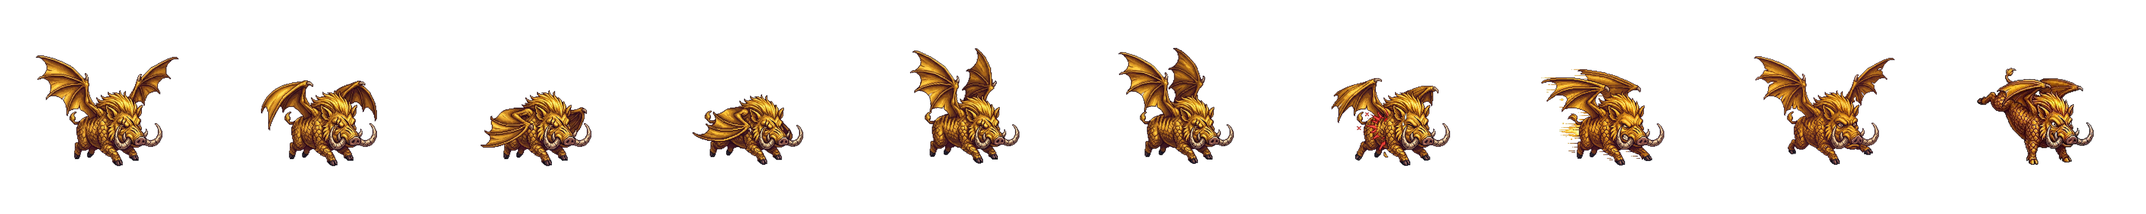
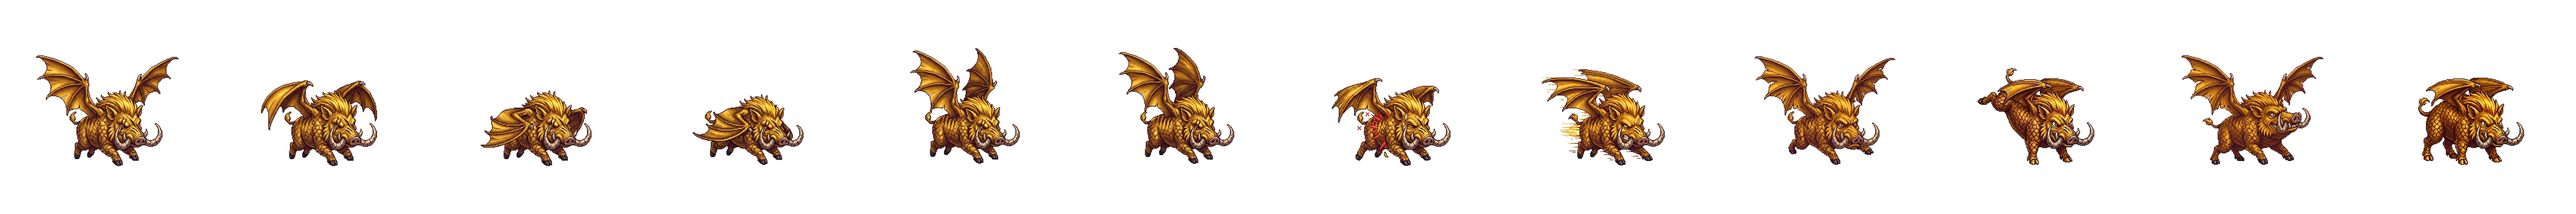
When Pigs Fly: glad landings and the razorback's alternating buck, synced from app 5a3f905

Changed region(s): [[0.5, 0.25, 1.0, 0.7812], [0.0, 0.2188, 0.5, 0.7812]]

diff --git a/arcade/v2/app/lib/arcade/passage/boar.dart b/arcade/v2/app/lib/arcade/passage/boar.dart
@@ -52,8 +52,12 @@ enum BoarStage {
   String get label => BoarSpec.all[this]!.name;
 }
 
-/// Frame indices within a stage's sheet: the wing cycle first, then four
-/// poses.
+/// Frame indices within a stage's sheet: the wing cycle first, then six
+/// poses. The last two are for the ground after a landing: [landWin], the
+/// touchdown after a whole passage flown, and [standAlt], a second standing
+/// pose the boar alternates with [stand] (the razorback's buck). Where they
+/// are not drawn, the importer repeats [land] and [stand] in their place, so
+/// every sheet has the same layout.
 class BoarFrames {
   /// How many drawings the wingbeat has. Four, starting wings-up; the
   /// razorback's owner-drawn beat has six.
@@ -92,7 +96,14 @@ class BoarFrames {
 
   /// Wings folded, standing on the ground.
   int get stand => cycleLength + 3;
-  int get count => cycleLength + 4;
+
+  /// The touchdown after flying the whole passage: glad, where [land] (the
+  /// piglet's teary flop) is for a run that ran out short.
+  int get landWin => cycleLength + 4;
+
+  /// Standing, the other half of the idle.
+  int get standAlt => cycleLength + 5;
+  int get count => cycleLength + 6;
 }
 
 class BoarSpec {

diff --git a/arcade/v2/app/test/passage_test.dart b/arcade/v2/app/test/passage_test.dart
@@ -307,6 +307,24 @@ void main() {
       }
     });
 
+    test('a whole passage lands on the glad frame; a short run on the plain one; standing alternates', () {
+      for (final whole in [true, false]) {
+        final run = CabinetRun();
+        final g = _game(run);
+        final f = BoarSpec.all[g.stage]!.frames;
+        g.flap();
+        _fly(g, run, 0.3);
+        whole ? g.devSkipToLanding() : g.devEndShort();
+        final seen = <int>{};
+        _fly(g, run, 30, each: (_) {
+          if (g.phase != PassagePhase.flying) seen.add(g.boarFrame);
+        });
+        expect(seen, contains(whole ? f.landWin : f.land), reason: whole ? 'whole passage' : 'short run');
+        expect(seen, isNot(contains(whole ? f.land : f.landWin)));
+        expect(seen, containsAll([f.stand, f.standAlt]), reason: 'the standing idle alternates');
+      }
+    });
+
     test('the razorback beats through all six of its drawings, and only those', () {
       final run = CabinetRun();
       final g = PassageGame(run: run, seed: 7, stage: BoarStage.razorback)..onGameResize(_size);

diff --git a/arcade/v2/app/lib/arcade/passage/passage_render.dart b/arcade/v2/app/lib/arcade/passage/passage_render.dart
@@ -518,11 +518,20 @@ extension PassageRender on PassageGame {
     );
   }
 
+  /// Seconds each standing pose holds in the idle.
+  static const _standBeat = 0.55;
+
   /// Which frame of the sheet to draw. See [BoarFrames].
   int _boarFrame() {
     final f = BoarSpec.all[stage]!.frames;
-    if (phase == PassagePhase.down) return _phaseT < 0.25 ? f.land : f.stand;
-    if (phase != PassagePhase.flying && _groundY - _coinY < _coinR * 3.2) return f.land;
+    // A whole passage flown lands glad; a run that ran out short, as it is.
+    final land = sim.erasCleared >= eras.length ? f.landWin : f.land;
+    if (phase == PassagePhase.down) {
+      if (_phaseT < 0.25) return land;
+      // Standing: two poses in turn, a beat each.
+      return ((_phaseT - 0.25) / _standBeat).floor().isEven ? f.stand : f.standAlt;
+    }
+    if (phase != PassagePhase.flying && _groundY - _coinY < _coinR * 3.2) return land;
     if (_t < _hurtUntil) return f.hurt;
     if (_t < _dashUntil) return f.dash;
     return f.cycleFrameAt(_wingPhase - _wingPhase.floorToDouble());

diff --git a/arcade/v2/app/tool/art/import_boars.py b/arcade/v2/app/tool/art/import_boars.py
@@ -33,9 +33,12 @@ N + 4 frames, and boar.dart must say so for N other than four
 (BoarFrames(6)). The single pose given on the command line is not used for
 that stage.
 
-The four frames after the wing cycle (hurt, dash, land, stand) can be drawn
-too: tool/art/source/boar_{stage}_{hurt,dash,land,stand}.png, any of them.
-Each drawn one replaces the one made from the wingbeat. They come from a
+The six frames after the wing cycle (hurt, dash, land, stand, landwin,
+stand2) can be drawn too: tool/art/source/boar_{stage}_{pose}.png, any of
+them. Each drawn one replaces the one made from the wingbeat. landwin is the
+touchdown after a whole passage (glad, where land may be a teary flop) and
+stand2 a second standing pose the boar alternates with stand; undrawn, they
+repeat land and stand. They come from a
 pose sheet, split and registered to the wingbeat by split_frames.py:
 
     python tool/art/split_frames.py poses.jpg tool/art/source/boar_juvenile \
@@ -276,7 +279,7 @@ def to_frames(imgs, extra=()):
     return out
 
 
-POSES = ("hurt", "dash", "land", "stand")
+POSES = ("hurt", "dash", "land", "stand", "landwin", "stand2")
 
 
 def drawn_cycle(stage, facing):
@@ -310,7 +313,12 @@ def drawn_sheet(cycle, stage, poses=None):
     up, mid = cycle[0], cycle[1]
     fold = cycle[DRAWN_FOLDED.get(stage, 3)]
     made = {"hurt": hurt(mid), "dash": dash(fold), "land": up, "stand": fold}
-    frames = [*cycle, *[poses[n] if n in poses else made[n] for n in POSES]]
+    got = {n: poses.get(n, made.get(n)) for n in ("hurt", "dash", "land", "stand")}
+    # The two later poses repeat land and stand where they are not drawn: a
+    # glad landing that is the landing, a second stand that is the stand.
+    got["landwin"] = poses.get("landwin", got["land"])
+    got["stand2"] = poses.get("stand2", got["stand"])
+    frames = [*cycle, *[got[n] for n in POSES]]
     out = Image.new("RGBA", (FRAME * len(frames), FRAME), (0, 0, 0, 0))
     for i, f in enumerate(frames):
         out.paste(f, (i * FRAME, 0), f)
@@ -349,7 +357,9 @@ def sheet(frame, stage):
         elif i == 5:
             f = dash(frame)
         frames.append(f)
-    out = Image.new("RGBA", (FRAME * FRAMES, FRAME), (0, 0, 0, 0))
+    # The glad landing and the second stand, as the landing and the stand.
+    frames += [frames[6], frames[7]]
+    out = Image.new("RGBA", (FRAME * len(frames), FRAME), (0, 0, 0, 0))
     for i, f in enumerate(frames):
         out.paste(f, (i * FRAME, 0), f)
     return out
@@ -368,10 +378,12 @@ def main():
             cycle, poses = drawn
             frames[stage] = cycle[0]
             drawn_sheet(cycle, stage, poses).save(os.path.join(OUT, f"boar_{stage}.png"))
-            made = ", ".join(n for n in POSES if n not in poses)
+            made = ", ".join(n for n in POSES[:4] if n not in poses)
+            repeated = [n for n in POSES[4:] if n not in poses]
             print(f"{stage}: drawn wingbeat (source/boar_{stage}_cycle_1..{len(cycle)}.png)"
                   f", drawn poses: {', '.join(poses) or 'none'}"
-                  f"{f', made from the wingbeat: {made}' if made else ''} -> boar_{stage}.png")
+                  f"{f', made from the wingbeat: {made}' if made else ''}"
+                  f"{f', repeating land/stand for: {chr(44).join(repeated)}' if repeated else ''} -> boar_{stage}.png")
             continue
         img = Image.open(src).convert("RGBA")
         if args.facing == "left":

diff --git a/arcade/v2/app/tool/art/check_sheets.py b/arcade/v2/app/tool/art/check_sheets.py
@@ -15,7 +15,8 @@ import sys
 
 from PIL import Image
 
-# A sheet is the wing cycle and then four poses (hurt, dash, land, stand);
+# A sheet is the wing cycle and then six poses (hurt, dash, land, stand,
+# land after a whole passage, second stand);
 # the cycle is four drawings unless boar.dart gives the stage
 # BoarFrames(n), as the razorback's six.
 CYCLE = 4
@@ -66,8 +67,8 @@ def check(path, stage, spec):
         errors.append(f"mode is {im.mode}, needs RGBA with a transparent background")
         im = im.convert("RGBA")
     w, h = im.size
-    FRAMES = int((spec or {}).get("cycle", CYCLE)) + 4
-    STAND = FRAMES - 1
+    FRAMES = int((spec or {}).get("cycle", CYCLE)) + 6
+    STAND = FRAMES - 3
     if w != h * FRAMES:
         errors.append(f"{w}x{h}: must be one row of {FRAMES} square frames ({h * FRAMES}x{h})")
         return errors, warns, None

diff --git a/arcade/v2/app/tool/art/BOAR-POSE-PROMPTS.md b/arcade/v2/app/tool/art/BOAR-POSE-PROMPTS.md
@@ -1,0 +1,94 @@
+# When Pigs Fly — boar pose prompts
+
+Prompts for Nano Banana Pro that add to the owner's boar drawings without
+replacing them. The drawings are the style every backdrop is matched to, and
+an animation needs frames that match each other exactly, which generated
+images are weakest at. So each prompt works from the owner's frames: it
+attaches them and asks for the same boar in one new pose.
+
+**Every time:**
+- Start a new chat for each pose.
+- Attach the drawings named with the prompt, from `tool/art/source/`.
+- If the pose comes out wrong, run the prompt again in a new chat rather
+  than correcting it over several replies.
+
+The background is white, like the drawings, and the splitter clears it.
+Size doesn't matter: the splitter finds the scale and lines each pose up on
+the boar's own frames.
+
+## The slots
+
+| Slot | What it is | Until drawn |
+|---|---|---|
+| `landwin` | The touchdown after flying the whole passage | repeats `land` |
+| `stand2` | A second standing pose, alternating with `stand` every 0.55 s | repeats `stand` |
+
+The game picks `landwin` when every era was flown and `land` when the
+reserve ran out short. The piglet's `land` is a teary flop, which used to
+play after a win too.
+
+## The shared part
+
+Every prompt below starts with this paragraph:
+
+```
+Create a pixel art game sprite of the boar in the attached drawings: exactly the same character, with the same design, proportions, colours, markings, wings, palette and pixel size. One boar only, full body, nothing cropped, seen from the side, facing the same way as the attached drawings. Plain pure white #FFFFFF background: no ground, no shadow, no scenery, no text, no labels, no border.
+```
+
+## Happy landings
+
+**Piglet** (`boar_piglet_landwin`). Attach `boar_piglet_land_drawn.jpg` and
+`boar_piglet_stand_drawn.jpg`.
+```
+Create a pixel art game sprite of the boar in the attached drawings: exactly the same character, with the same design, proportions, colours, markings, wings, palette and pixel size. One boar only, full body, nothing cropped, seen from the side, facing the same way as the attached drawings. Plain pure white #FFFFFF background: no ground, no shadow, no scenery, no text, no labels, no border.
+Pose: a proud, happy landing at the end of a long flight. Its hooves are just touching down, legs reaching for the ground, little white wings raised and spread for balance, head up, a big joyful smile with eyes squeezed shut in delight. No tears, no sweat drops.
+```
+
+**Juvenile** (`boar_juvenile_landwin`). Attach `boar_juvenile_land_drawn.jpg`
+and `boar_juvenile_stand_drawn.jpg`.
+```
+Create a pixel art game sprite of the boar in the attached drawings: exactly the same character, with the same design, proportions, colours, markings, wings, palette and pixel size. One boar only, full body, nothing cropped, seen from the side, facing the same way as the attached drawings. Plain pure white #FFFFFF background: no ground, no shadow, no scenery, no text, no labels, no border.
+Pose: a triumphant landing at the end of a long flight. Its hooves are just touching down, legs reaching for the ground, golden wings raised high, head up, a confident grin with bright eyes. No sweat drops, nothing tired.
+```
+
+**Razorback** (`boar_razorback_landwin`). Attach
+`boar_razorback_land_drawn.jpg` and `boar_razorback_stand_drawn.jpg`.
+```
+Create a pixel art game sprite of the boar in the attached drawings: exactly the same character, with the same design, proportions, colours, markings, wings, palette and pixel size. One boar only, full body, nothing cropped, seen from the side, facing the same way as the attached drawings. Plain pure white #FFFFFF background: no ground, no shadow, no scenery, no text, no labels, no border.
+Pose: a victorious landing at the end of a long flight. Its hooves are just touching down, legs reaching for the ground, great wings spread wide, head raised, a fierce proud grin, tusks bared, eyes bright.
+```
+
+## The razorback's second buck
+
+**Razorback** (`boar_razorback_stand2`). Attach
+`boar_razorback_stand_drawn.jpg`.
+
+The current stand kicks the hind legs up. This is the other half of the
+buck, and the game shows the two in turn.
+```
+Create a pixel art game sprite of the boar in the attached drawings: exactly the same character, with the same design, proportions, colours, markings, wings, palette and pixel size. One boar only, full body, nothing cropped, seen from the side, facing the same way as the attached drawings. Plain pure white #FFFFFF background: no ground, no shadow, no scenery, no text, no labels, no border.
+Pose: the other half of the buck in the attached standing drawing. All four hooves planted on the ground, crouched low and gathered, head down, ready to kick again; wings folded as in the attached drawing; the same fierce face. Keep the body the same size as in the attached drawing: the two poses will alternate as an idle animation.
+```
+
+## In-between wing frames (optional)
+
+Only if a wingbeat looks choppy on the phone. Attach the two frames the new
+one goes between (for example `boar_piglet_cycle_1.png` and `_2.png`), and
+say which two they are when sending the result: the frames are renumbered
+to fit it in.
+```
+Create a pixel art game sprite of the boar in the attached drawings: exactly the same character, with the same design, proportions, colours, markings, wings, palette and pixel size. One boar only, full body, nothing cropped, seen from the side, facing the same way as the attached drawings. Plain pure white #FFFFFF background: no ground, no shadow, no scenery, no text, no labels, no border.
+Pose: the in-between frame of a wingbeat, exactly halfway between the two attached frames. The body, head and legs stay exactly where they are in both frames; only the wings move, to halfway between their position in the first attached frame and in the second.
+```
+
+## How they go in
+
+`split_frames.py`, as for the other poses:
+
+    python tool/art/split_frames.py <image> tool/art/source/boar_<stage> --frames 1 \
+        --ref tool/art/source/boar_<stage>_cycle_1.png --names landwin --floor <the stage's stand frame>
+
+- **`--holes`:** add it for the juvenile and razorback.
+- **`--scale`:** add it if the head match misjudges a pose, using the size
+  found for the stage's other poses.
+- **Then:** `import_boars.py`.

diff --git a/arcade/TEN-GAMES.md b/arcade/TEN-GAMES.md
@@ -681,6 +681,69 @@ the gap and no white patch, alongside the game's own speed streaks. (The
 first install attempt failed because the Pixel had dropped off adb; the
 check was redone once it was plugged back in.)
 
+### Glad landings and the razorback's buck, from Nano Banana Pro — 2026-09-29
+
+The owner made the new poses from the prompts, each from their own drawings
+attached. Against the owner's drawings, the new images match closely: the
+piglet's halo and gold stripes, the juvenile's feathers, the razorback's
+scales and membranes.
+
+**In the sheets** (split with `split_frames.py`, floored on each stage's
+hoof line):
+- **Piglet `landwin`:** eyes squeezed shut with joy, wings up. Scale 0.249,
+  against 0.245 for its close-ups.
+- **Juvenile `landwin`:** a confident grin. It came facing right and was
+  turned round. Scale 0.260, the same as its other poses.
+- **Razorback `landwin`:** a fierce grin, wings wide. The head match said
+  0.444, 17% larger than the other razorback poses, misled by the open
+  grin. An onion skin at 0.378 matched the drawn landing's body exactly, so
+  that is the one used (`--scale 0.378`).
+- **Razorback `stand2`:** crouched and gathered, head down. Scale 0.380.
+
+footV is unchanged for every stage.
+
+**Verified on the Pixel** (razorback, DEV "Skip to the landing", recorded):
+the glad landing comes down on the ground line, then the idle alternates
+the kicked-up and crouched bucks.
+
+**Four more images, not yet placed** (106 and 107 juvenile, 108 razorback,
+110 piglet) look like wing in-betweens. Measured against the wingbeats
+(wing-area IoU), they sit near the wings-high frames: 110 between piglet 4
+and 1, 106 and 107 between juvenile 4 and 1, 108 between razorback 1 and 2.
+Only the piglet's fills that beat's biggest gap. The juvenile's (2 → 3)
+and razorback's (4 → 5) are left. Placement waits on the owner.
+
+### Two new pose slots, and prompts for the boars — 2026-09-29
+
+The owner asked whether to redo the boars with Nano Banana Pro, as the
+backdrops were. **Decided against replacing them.** An animation needs
+frames that match each other exactly, which generated images are weakest at.
+The owner's drawings are also the style reference every backdrop prompt
+matches. Instead, Nano Banana fills gaps, working from the owner's frames
+(attached) in edit mode.
+
+**Two new sheet slots** after `stand` (`BoarFrames.landWin` and
+`standAlt`), so every sheet is the cycle plus six poses:
+- **`landWin`:** the touchdown after the whole passage. The game picks it
+  when every era was flown, and `land` when a run ran out short. Until now
+  the piglet's teary flop played after a win too.
+- **`standAlt`:** a second standing pose. Once down, the boar alternates
+  `stand` and `standAlt` every 0.55 s, as an idle. It's for the razorback's
+  alternating buck the owner described.
+
+Until drawn, the importer repeats `land` and `stand` in the new slots, so
+nothing changes on screen. `check_sheets.py` counts the new layout. A test
+covers the win and short landings and the alternating stand. Checked on the
+Pixel: flight and touchdown still draw.
+
+**Prompts:** `tool/art/BOAR-POSE-PROMPTS.md`.
+- **One shared paragraph:** the same boar as the attached drawings, one
+  boar, full body, white background, no shadow or text.
+- **Happy landings:** one per stage.
+- **The razorback's second buck:** all four hooves planted, crouched,
+  gathering to kick, the other half of the current stand's kick.
+- **Optional in-between wing frames:** for a beat that looks choppy.
+
 ### Redos: 1913 mid, 1944 far, 1979 far, 1873 shaft — 2026-09-29
 
 A review of all nine eras side by side picked four pieces to redo, and the
